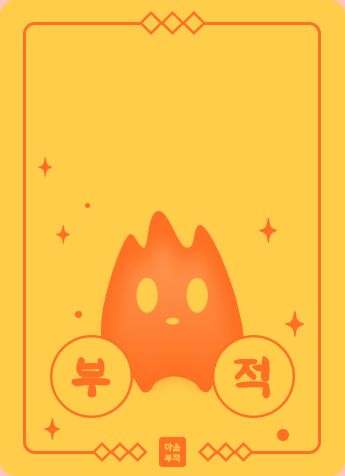
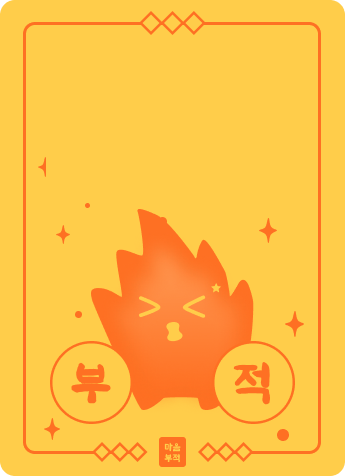
feat: replace talisman templates with 13 designs

diff --git a/src/features/burn/components/TalismanCard.tsx b/src/features/burn/components/TalismanCard.tsx
@@ -15,6 +15,10 @@ const TEMPLATE_ASSETS: Record<TalismanTemplateKey, string> = {
   "talisman-07": "/figma/talisman/templates/talisman-07.png",
   "talisman-08": "/figma/talisman/templates/talisman-08.png",
   "talisman-09": "/figma/talisman/templates/talisman-09.png",
+  "talisman-10": "/figma/talisman/templates/talisman-10.png",
+  "talisman-11": "/figma/talisman/templates/talisman-11.png",
+  "talisman-12": "/figma/talisman/templates/talisman-12.png",
+  "talisman-13": "/figma/talisman/templates/talisman-13.png",
 };
 
 type TalismanCardProps = {
@@ -27,9 +31,8 @@ export default function TalismanCard({
   variant = "full",
 }: TalismanCardProps) {
   const characters = splitTalismanPhrase(talisman.phrase) ?? ["", "", "", ""];
-  const isSpecialTemplate = talisman.templateKey === "talisman-07";
   const templateAsset =
-    TEMPLATE_ASSETS[talisman.templateKey] ?? TEMPLATE_ASSETS["talisman-09"];
+    TEMPLATE_ASSETS[talisman.templateKey] ?? TEMPLATE_ASSETS["talisman-13"];
   const radiusClass = {
     full: "rounded-[15px]",
     list: "rounded-[4.331px]",
@@ -41,31 +44,19 @@ export default function TalismanCard({
       aria-label={`${talisman.phrase} 마음부적`}
       className={`relative aspect-[345/476] w-full overflow-hidden bg-[#ffcd4a] [container-type:inline-size] ${radiusClass}`}
     >
-      {isSpecialTemplate ? (
-        <Image
-          alt=""
-          className="absolute left-[-5.8%] top-[-3.36%] h-[108.4%] w-[111.6%] max-w-none"
-          height={516}
-          priority
-          src={templateAsset}
-          unoptimized
-          width={385}
-        />
-      ) : (
-        <Image
-          alt=""
-          className="object-fill"
-          fill
-          priority
-          src={templateAsset}
-          unoptimized
-        />
-      )}
+      <Image
+        alt=""
+        className="object-fill"
+        fill
+        priority
+        src={templateAsset}
+        unoptimized
+      />
 
-      <div className="absolute left-[13.33%] top-[14.29%] grid h-[14.29%] w-[73.33%] grid-cols-4">
+      <div className="absolute left-[13.33%] top-[13.03%] grid h-[14.29%] w-[73.33%] grid-cols-4">
         {characters.map((character, index) => (
           <span
-            className="font-talisman flex items-center justify-center pt-[1cqw] text-[11.59cqw] leading-none text-[#fe7023]"
+            className="font-talisman flex items-center justify-center pt-[1cqw] text-[11.59cqw] font-normal leading-none text-[#fe7023]"
             key={`${character}-${index}`}
           >
             {character}
@@ -74,7 +65,7 @@ export default function TalismanCard({
       </div>
 
       <time
-        className="absolute left-1/2 top-[31.51%] -translate-x-1/2 text-[5.8cqw] font-semibold leading-normal text-[#fe7023]"
+        className="absolute left-1/2 top-[30.25%] -translate-x-1/2 text-[5.8cqw] font-semibold leading-normal text-[#fe7023]"
         dateTime={talisman.generatedAt}
       >
         {formatDate(talisman.generatedAt)}

diff --git a/src/features/burn/types.ts b/src/features/burn/types.ts
@@ -8,6 +8,10 @@ export const TALISMAN_TEMPLATE_KEYS = [
   "talisman-07",
   "talisman-08",
   "talisman-09",
+  "talisman-10",
+  "talisman-11",
+  "talisman-12",
+  "talisman-13",
 ] as const;
 
 export type TalismanTemplateKey = (typeof TALISMAN_TEMPLATE_KEYS)[number];
@@ -48,4 +52,22 @@ export type CreateBurningResponse = {
   burnedAt: string;
   burningId: number;
   sourceType: "DIARY" | "DIRECT";
+};
+
+export type BurningDetailResponse = {
+  analysisStatus:
+    "COMPLETED" | "FAILED" | "FALLBACK_COMPLETED" | "PENDING" | "PROCESSING";
+  burnedAt: string;
+  burningId: number;
+  hasTalisman: boolean;
+  sourceType: "DIARY" | "DIRECT";
+  talismanText: string | null;
+  talismanType: number | null;
+};
+
+export type TalismanCreationResponse = {
+  hasTalisman: boolean;
+  talisman: {
+    talismanId: number;
+  } | null;
 };
